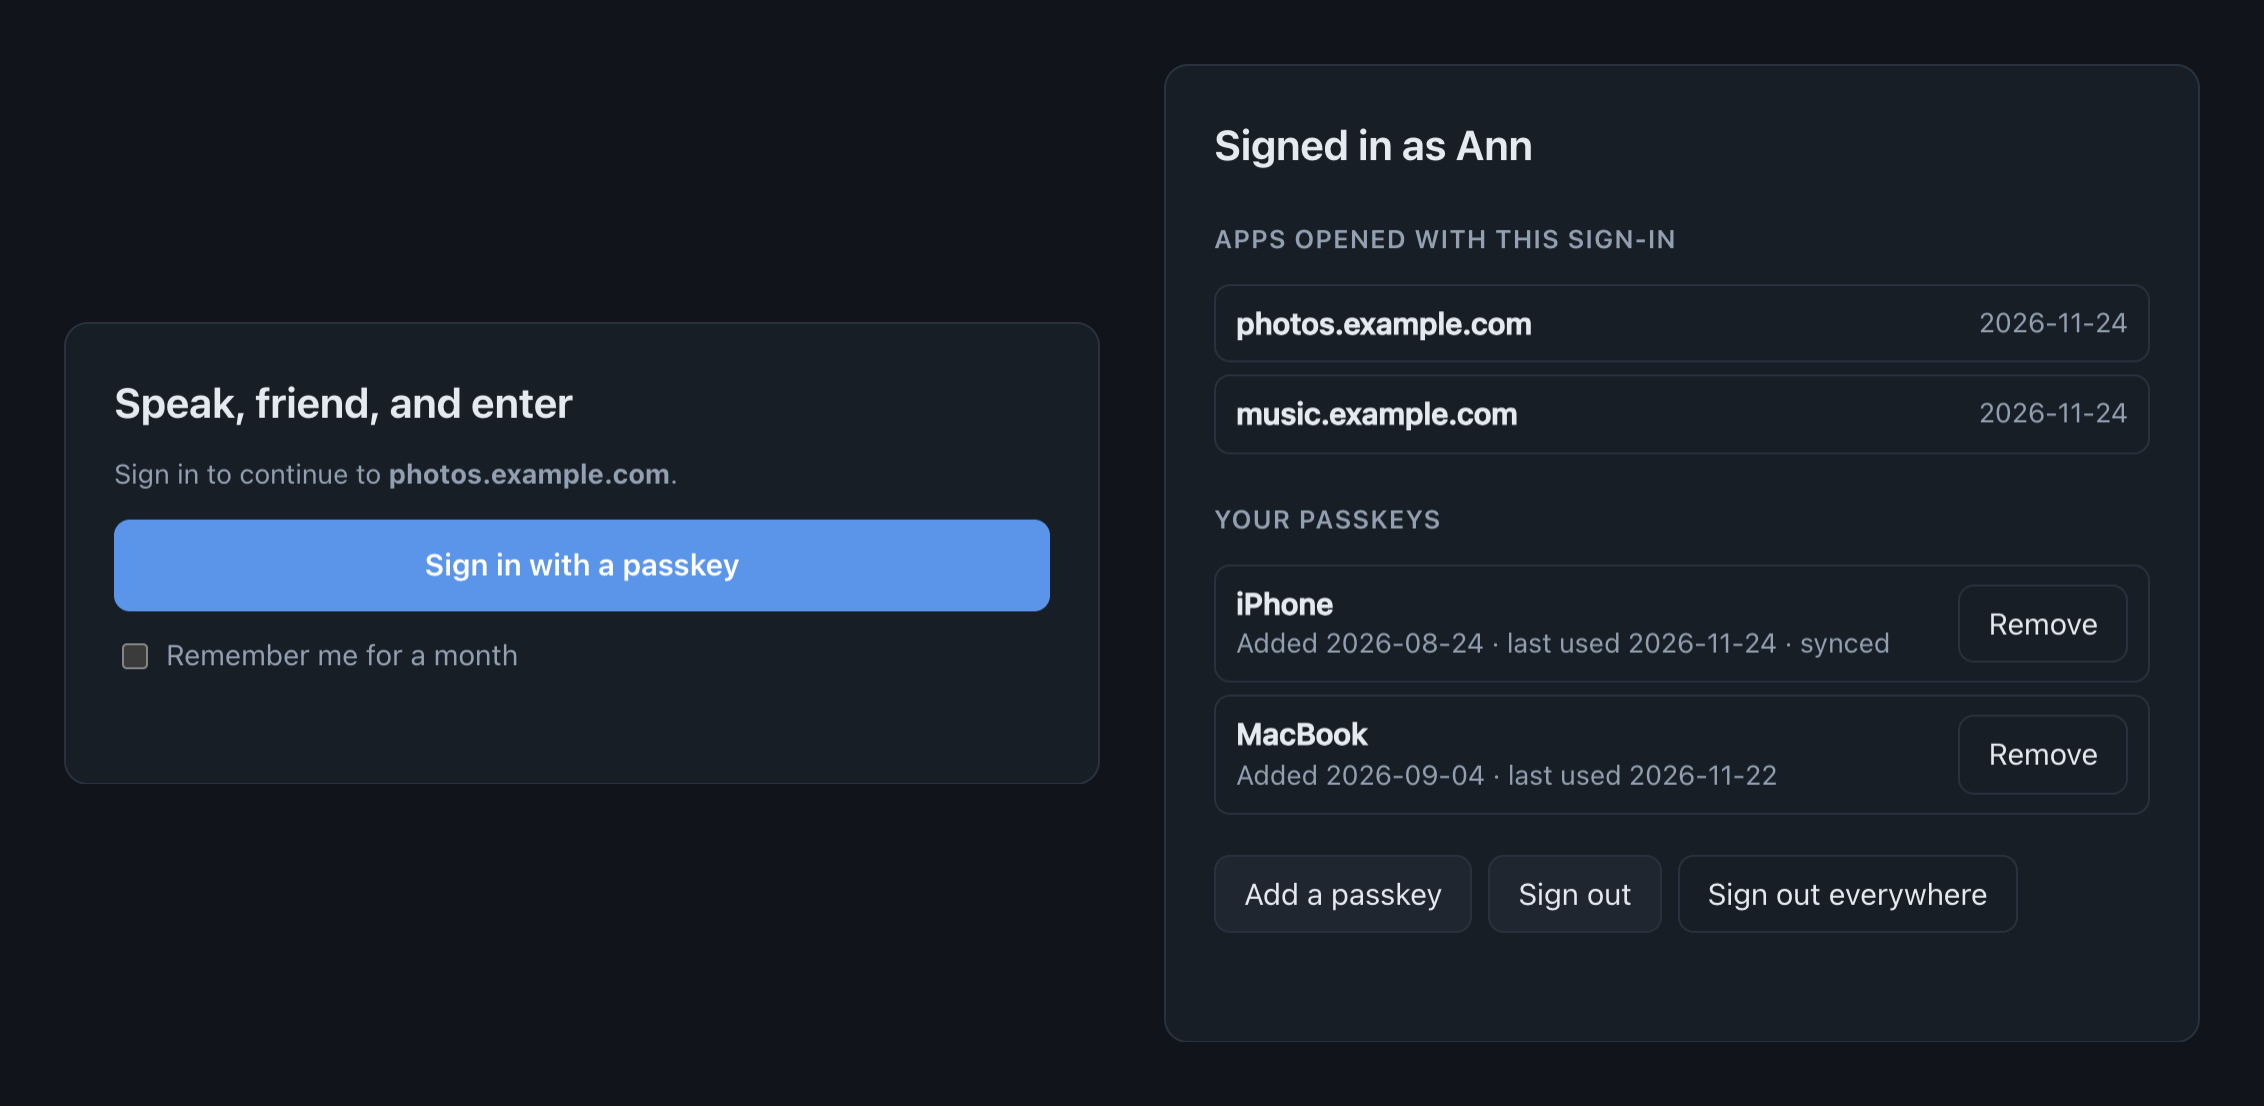
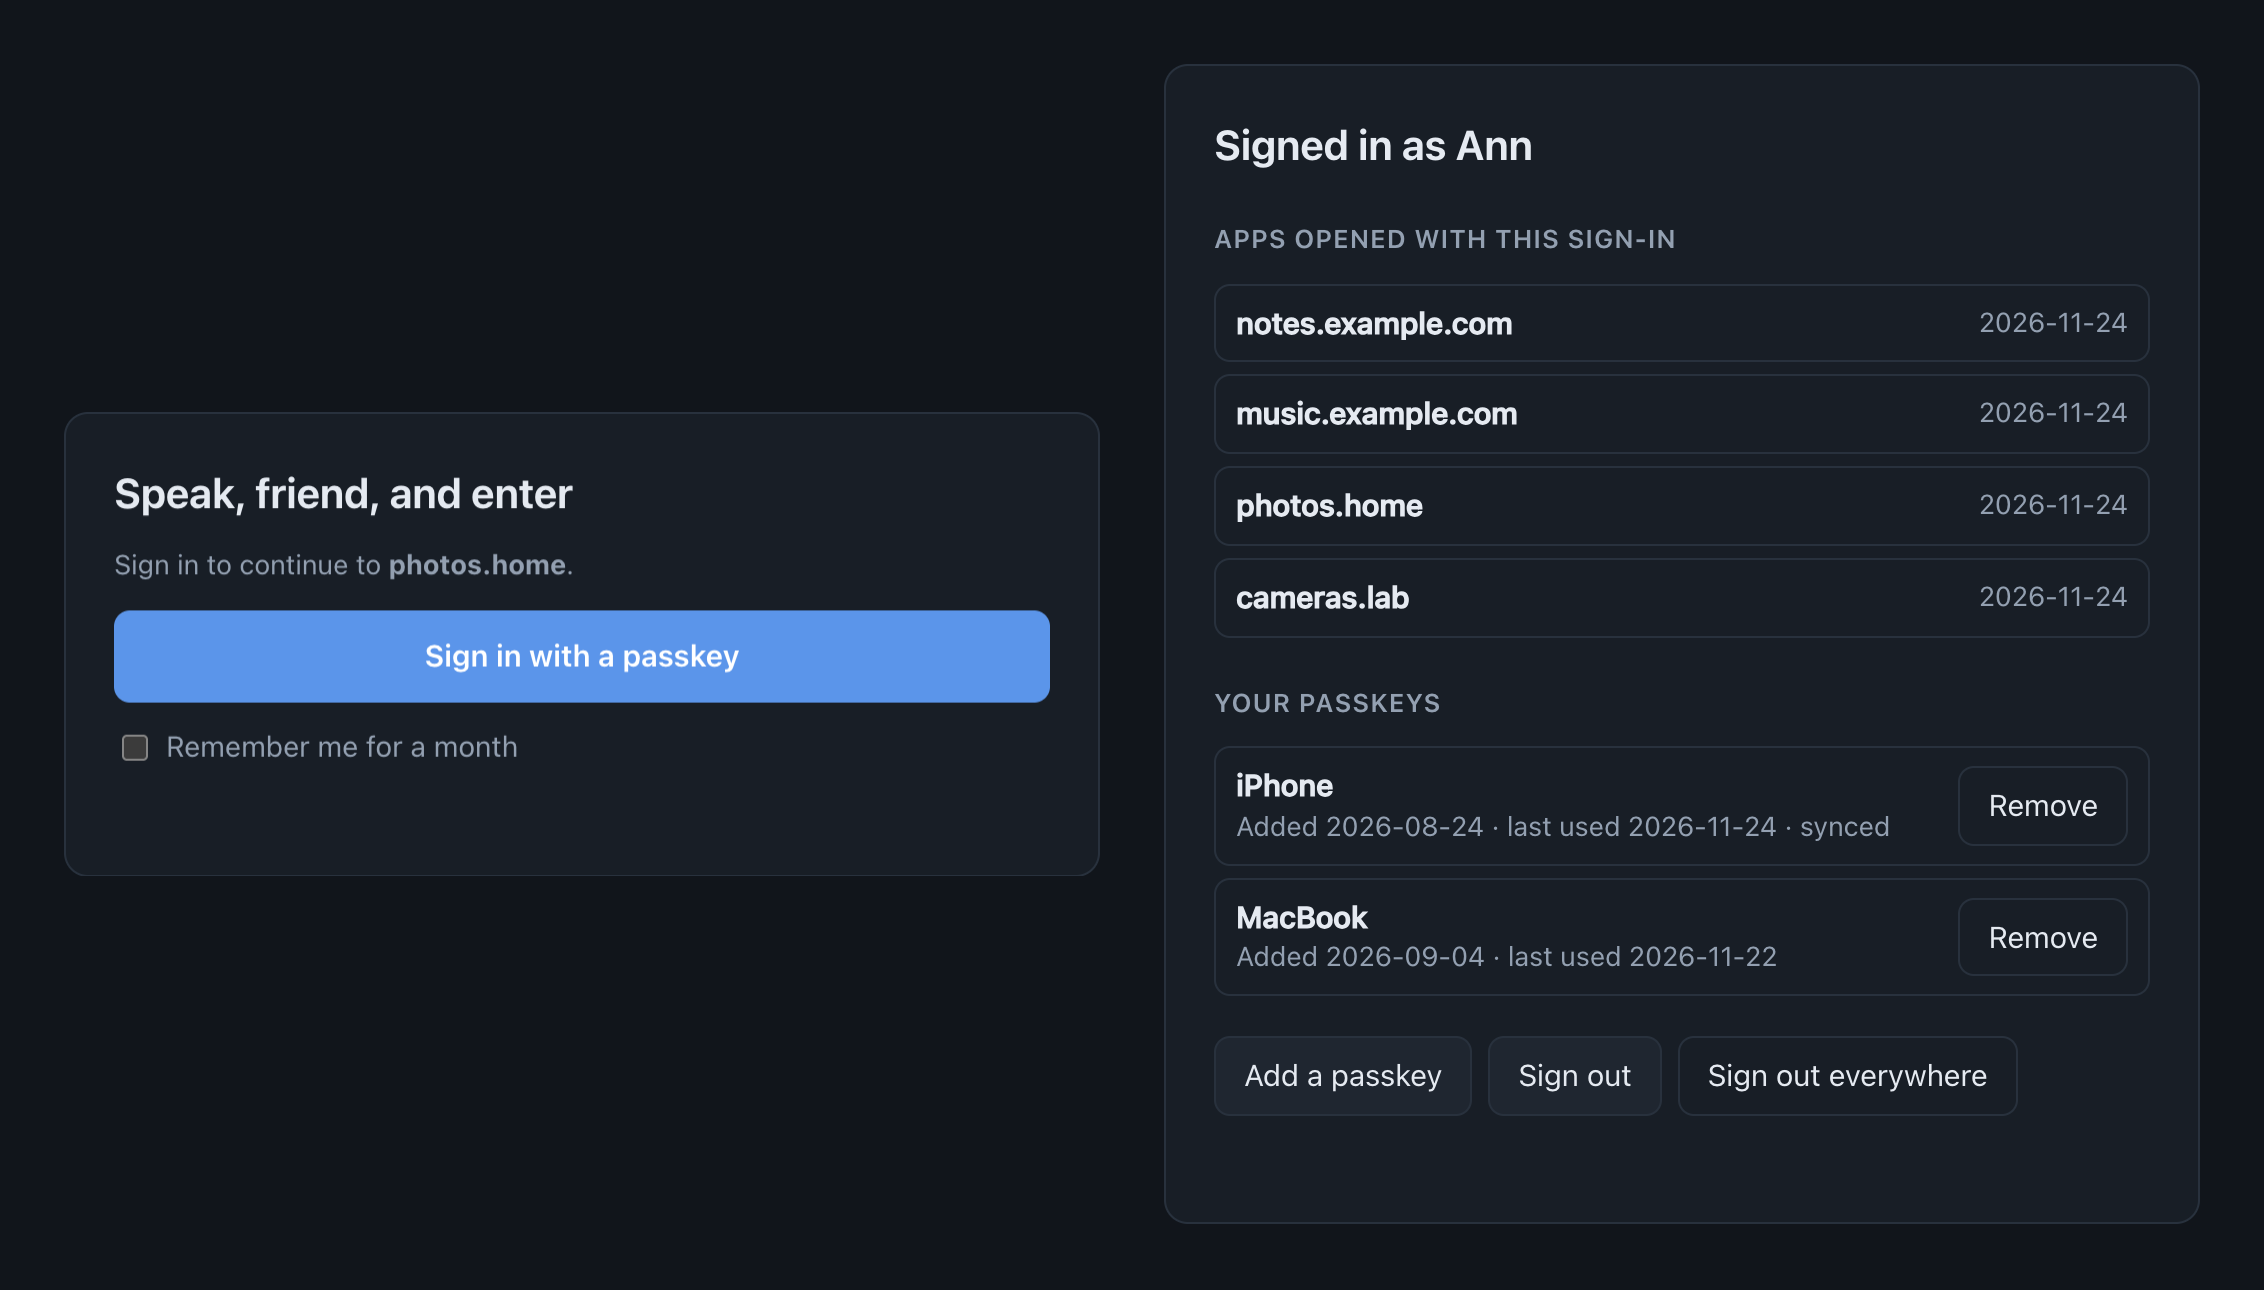
Several domains per install, private TLDs included; README features and screenshot

diff --git a/src/durin.hpp b/src/durin.hpp
@@ -1,7 +1,7 @@
 #pragma once
 
-// Durin: one passkey sign-in at the auth host (e.g. auth.example.com) for every app host under the
-// suffix (*.example.com), behind any reverse proxy with forward auth.
+// Durin: one passkey sign-in at the auth host (e.g. auth.example.com) for every app host under its
+// domains (*.example.com, *.home), behind any reverse proxy with forward auth.
 //
 // There is no shared cookie (browsers set none on a bare public suffix, and host-only cookies leak
 // less). Instead:
@@ -23,6 +23,8 @@
 #include <optional>
 #include <string>
 #include <string_view>
+#include <vector>
+#include <ranges>
 
 #include <sodium.h>
 
@@ -36,8 +38,8 @@ namespace durin {
 
 struct Settings {
     std::string auth_host;                // DURIN_AUTH_HOST (required): where sign-in happens, the passkey RP ID
-    std::string suffix;                   // DURIN_SUFFIX: app hosts are <name>.<suffix>; default: the auth host
-                                          // without its first label
+    std::vector<std::string> domains;     // app hosts are <name>.<domain>: the auth host's own domain, then
+                                          // DURIN_DOMAINS (comma separated)
     std::string user_header = "Remote-User"; // DURIN_USER_HEADER: the header verify answers with the account name
     long long idle_seconds = 5 * 60;      // DURIN_IDLE_SECONDS: unremembered sign-in ends after this much quiet
     long long max_seconds = 12 * 3600;    // DURIN_MAX_SECONDS: ... and after this long in any case
@@ -67,13 +69,17 @@ inline auto settings() -> const Settings& {
             }
         };
         text("DURIN_AUTH_HOST", c.auth_host);
-        text("DURIN_SUFFIX", c.suffix);
         text("DURIN_USER_HEADER", c.user_header);
-        for (auto* v : {&c.auth_host, &c.suffix}) {
+        std::string more;
+        text("DURIN_DOMAINS", more);
+        for (auto* v : {&c.auth_host, &more}) {
             std::ranges::transform(*v, v->begin(), [](unsigned char ch) { return static_cast<char>(std::tolower(ch)); });
         }
-        if (c.suffix.empty()) {
-            if (const auto dot = c.auth_host.find('.'); dot != std::string::npos) c.suffix = c.auth_host.substr(dot + 1);
+        if (const auto dot = c.auth_host.find('.'); dot != std::string::npos) c.domains.push_back(c.auth_host.substr(dot + 1));
+        for (const auto part : more | std::views::split(',')) {
+            std::string d(std::string_view{part});
+            std::erase_if(d, [](unsigned char ch) { return std::isspace(ch) != 0; });
+            if (!d.empty()) c.domains.push_back(std::move(d));
         }
         number("DURIN_IDLE_SECONDS", c.idle_seconds);
         number("DURIN_MAX_SECONDS", c.max_seconds);
@@ -129,13 +135,16 @@ inline auto original_url(const web::Request& req) -> Original {
     return {strip_port(std::string(authority)), slash == std::string_view::npos ? "/" : std::string(rest.substr(slash))};
 }
 
-// <label>(.<label>)*.<suffix>, DNS characters only, and not the auth host.
+// DNS labels: letters, digits and dashes, no empty label, no leading dash.
+inline auto is_dns_name(std::string_view n) -> bool {
+    if (n.empty() || n.size() > 253 || n.front() == '.' || n.back() == '.' || n.front() == '-' || n.contains("..")) return false;
+    return std::ranges::all_of(n, [](char c) { return (c >= 'a' && c <= 'z') || (c >= '0' && c <= '9') || c == '-' || c == '.'; });
+}
+
+// <label>(.<label>)*.<domain> for one of the domains, and not the auth host.
 inline auto is_app_host(std::string_view host, const Settings& s = settings()) -> bool {
-    const std::string tail = "." + s.suffix;
-    if (host.size() <= tail.size() || host.size() > 253 || !host.ends_with(tail) || host == s.auth_host) return false;
-    const auto name = host.substr(0, host.size() - tail.size());
-    if (name.front() == '.' || name.back() == '.' || name.front() == '-' || name.contains("..")) return false;
-    return std::ranges::all_of(name, [](char c) { return (c >= 'a' && c <= 'z') || (c >= '0' && c <= '9') || c == '-' || c == '.'; });
+    if (host == s.auth_host || !is_dns_name(host)) return false;
+    return std::ranges::any_of(s.domains, [&](const std::string& d) { return host.size() > d.size() + 1 && host.ends_with("." + d); });
 }
 
 // A path the callback may send the browser to on its own host: starts with one '/', no scheme-relative

diff --git a/tests/test_durin.cpp b/tests/test_durin.cpp
@@ -18,13 +18,14 @@ using W = db::sqlite::Handle<db::Write>;
 // The environment is read once, on first use: set it before any test runs.
 [[maybe_unused]] const int env_ready = [] {
     setenv("DURIN_AUTH_HOST", "auth.example.test", 1);
+    setenv("DURIN_DOMAINS", "Lab, other.test,", 1);
     return 0;
 }();
 
 auto settings() -> durin::Settings {
     durin::Settings s;
     s.auth_host = "auth.example.test";
-    s.suffix = "example.test";
+    s.domains = {"example.test", "lab"};
     return s;
 }
 
@@ -78,10 +79,15 @@ auto asked_url(const std::string& url) -> web::Request {
 
 } // namespace
 
-TEST_CASE("app hosts are DNS names under the suffix, never the auth host") {
+TEST_CASE("app hosts are DNS names under one of its domains, never the auth host") {
     const auto s = settings();
     CHECK(durin::is_app_host("a.example.test", s));
     CHECK(durin::is_app_host("a.b-c.example.test", s));
+    CHECK(durin::is_app_host("photos.lab", s)); // a second domain, here a private TLD
+    CHECK_FALSE(durin::is_app_host("lab", s));
+    CHECK_FALSE(durin::is_app_host("photoslab", s));
+    CHECK_FALSE(durin::is_app_host("photos.lab.evil.com", s));
+    CHECK_FALSE(durin::is_app_host("evil.notlab", s));
     CHECK_FALSE(durin::is_app_host("auth.example.test", s));
     CHECK_FALSE(durin::is_app_host("example.test", s));
     CHECK_FALSE(durin::is_app_host(".example.test", s));
@@ -92,6 +98,10 @@ TEST_CASE("app hosts are DNS names under the suffix, never the auth host") {
     CHECK_FALSE(durin::is_app_host("A.example.test", s));
     CHECK_FALSE(durin::is_app_host("a b.example.test", s));
     CHECK_FALSE(durin::is_app_host("a:8443.example.test", s));
+}
+
+TEST_CASE("domains come from the auth host and DURIN_DOMAINS") {
+    CHECK(durin::settings().domains == std::vector<std::string>{"example.test", "lab", "other.test"});
 }
 
 TEST_CASE("local paths keep the browser on its own host") {
@@ -114,6 +124,7 @@ TEST_CASE("a sign-in return address is an https app host or nothing") {
     CHECK(ok->path == "/p?q=1");
     CHECK(durin::parse_target("https://a.example.test", s)->path == "/");
     CHECK(durin::parse_target("https://a.example.test:443/x", s)->host == "a.example.test");
+    CHECK(durin::parse_target("https://photos.lab/x", s)->host == "photos.lab");
     CHECK(durin::parse_target("https://A.EXAMPLE.TEST/x", s)->host == "a.example.test");
 
     for (const char* bad : {"http://a.example.test/", "https://auth.example.test/", "https://evil.com/", "https://a.example.test@evil.com/",

diff --git a/app/routes/site_init.cpp b/app/routes/site_init.cpp
@@ -49,8 +49,11 @@ void site_init() {
     durin::create_schema(h);
 
     const auto& s = durin::settings();
-    if (s.auth_host.empty() || s.suffix.empty() || !s.auth_host.ends_with("." + s.suffix)) {
-        throw web::StartupError("set DURIN_AUTH_HOST (e.g. auth.example.com), and DURIN_SUFFIX if apps are not its siblings", 1);
+    if (s.domains.empty() || !durin::is_dns_name(s.auth_host)) throw web::StartupError("set DURIN_AUTH_HOST, like auth.example.com", 1);
+    std::string domains;
+    for (const auto& d : s.domains) {
+        if (!durin::is_dns_name(d)) throw web::StartupError("DURIN_DOMAINS: not a domain: " + d, 1);
+        domains += (domains.empty() ? "*." : ", *.") + d;
     }
     auto& pk = web::auth::passkeys::config();
     pk.rp_name = "Durin";
@@ -58,5 +61,5 @@ void site_init() {
     pk.rp.origins = {"https://" + s.auth_host};
     pk.rp.require_user_verification = true;
     pk.app_link_paths.clear();
-    log::info("durin: auth host {}, app hosts *.{}, {} account(s)", s.auth_host, s.suffix, durin::user_count(h));
+    log::info("durin: auth host {}, app hosts {}, {} account(s)", s.auth_host, domains, durin::user_count(h));
 }

diff --git a/README.md b/README.md
@@ -4,7 +4,10 @@ One passkey sign-in for all your self-hosted apps.
 
 Durin sits behind your reverse proxy. Sign in once at `auth.example.com` and every app on `*.example.com` opens. No passwords, no email, no outside service.
 
-**It also works on names you make up**, like `photos.home` and `music.home`, with no domain to buy and nothing public. Single sign-on normally shares one cookie across the domain, which browsers refuse on a bare name like `home`. Durin gives each app its own cookie instead, so one sign-in still opens them all.
+- **Passkeys only** — Face ID, Touch ID, a phone or a security key. No password to type, reuse or leak.
+- **Private TLDs** — use names you make up, like `photos.home`, with no domain to buy and nothing public. Single sign-on usually shares one cookie across a domain, which browsers refuse on a bare TLD; Durin gives each app its own.
+- **Several domains, one sign-in** — `notes.example.com` and `photos.home` open together.
+- **Your proxy** — Caddy, nginx, Traefik, Envoy or HAProxy.
 
 <picture>
   <source media="(prefers-color-scheme: dark)" srcset="docs/img/dark.png">
@@ -20,7 +23,7 @@ git clone https://github.com/joedzado/durin && cd durin
 
 <img src="docs/img/install.svg" alt="1. Run install.sh with your sign-in address and your proxy. 2. Paste what it prints into the proxy. 3. Open the link to make your account.">
 
-On a made-up name it is the same: `./install.sh auth.home caddy`. Your devices then need to [find and trust that name](docs/private-names.md) once.
+On a private TLD it is the same: `./install.sh auth.home caddy`. Your devices then need to [find and trust that name](docs/private-names.md) once.
 
 The first run also installs [Revet](https://github.com/joedzado/revet), the C++ framework Durin is written in.
 
@@ -41,6 +44,7 @@ None are needed. To change one, add it to `.env.local` and run `./install.sh`.
 
 | Setting | Default | |
 |---|---|---|
+| `DURIN_DOMAINS` | | More domains you control for apps, such as `home,example.org` |
 | `DURIN_IDLE_SECONDS` | `300` | Sign out after this long without activity |
 | `DURIN_MAX_SECONDS` | `43200` | Sign out after this long regardless |
 | `DURIN_REMEMBER_SECONDS` | `2592000` | How long "Remember me" lasts |
@@ -50,7 +54,7 @@ None are needed. To change one, add it to `.env.local` and run `./install.sh`.
 ## More
 
 - [Proxy recipes](docs/proxies.md)
-- [Private names](docs/private-names.md): setting up your devices for `*.home`
+- [Private TLDs](docs/private-names.md): setting up your devices for `*.home`
 - [Security](SECURITY.md): how it works, what it protects against, what it does not. Not independently audited.
 
 MIT license.

diff --git a/SECURITY.md b/SECURITY.md
@@ -13,7 +13,7 @@ Durin sits in front of other applications and decides who may reach them, so thi
 
 | Threat | Defence |
 |---|---|
-| Open redirect after sign-in | The return address must be `https`, an app host under the suffix, with no user info, odd port or scheme-relative path; anything else is dropped |
+| Open redirect after sign-in | The return address must be `https`, an app host under one of its domains, with no user info, odd port or scheme-relative path; anything else is dropped |
 | Stealing or replaying the hand-off code | One-time, 60 seconds, bound to the app host, stored hashed, and spent by any attempt, right or wrong |
 | One app reading another app's session | Each host has its own `__Host-` cookie (Secure, HttpOnly, no Domain); a cookie opens only the host it was made for, never the auth host |
 | Signing someone into your account (login CSRF) | A sign-in starts on the app host, which plants a nonce cookie; the code is bound to the nonce's hash and refuses any browser without the matching cookie, so a code you make cannot be delivered to someone else |
@@ -39,7 +39,7 @@ Durin sits in front of other applications and decides who may reach them, so thi
 - **Audit logging beyond the log file.** Sign-ins, sign-ups, invites and removals are logged by account name; denied requests are not.
 - **Demoting owners.** Owners cannot be removed from the web. Whoever holds an owner's passkey can invite anyone.
 - **Protection from a compromised proxy or host.** Either can mint what Durin would answer.
-- **A restricted certificate list.** If you use Caddy's on-demand certificates, `GET /.durin/ask` approves any well-formed name under the suffix, so anyone who can reach the proxy can have it issue certificates for made-up names. Keep the proxy off the open internet, or answer the check from your own list.
+- **A restricted certificate list.** If you use Caddy's on-demand certificates, `GET /.durin/ask` approves any well-formed name under one of its domains, so anyone who can reach the proxy can have it issue certificates for made-up names. Keep the proxy off the open internet, or answer the check from your own list.
 - **Hiding the session cookie from apps.** The proxy forwards the host's `__Host-durin` cookie to the app unless you strip it; the app can use it only on its own host.
 - **Keeping invite links out of logs.** An invite link carries its code in the query string, so it appears in the proxy's access log; it works once and for seven days. Cancel unused links from the account page.
 

diff --git a/docs/private-names.md b/docs/private-names.md
@@ -1,10 +1,12 @@
-# Private names
+# Private TLDs
 
 Durin works on any name your own network resolves: `auth.home` for signing in, `photos.home`, `music.home` and so on for apps. Nothing is registered and nothing leaves your network. These examples use `home`.
 
 ## The proxy
 
-`./install.sh auth.home caddy` prints Caddy config with `tls internal` on each site, so Caddy makes the certificates itself. With another proxy, give it a certificate from your own authority. Use one certificate per host: Chrome rejects `*.home`.
+`./install.sh auth.home caddy` prints Caddy config with `tls internal` on each site, so Caddy makes the certificates itself. To add one to a Durin that signs in elsewhere, put `DURIN_DOMAINS=home` in `.env.local`, run `./install.sh`, and give each app `tls internal` and `import durin`.
+
+With another proxy, give it a certificate from your own authority. Use one certificate per host: Chrome rejects `*.home`.
 
 ## Each device, once
 

diff --git a/AGENTS.md b/AGENTS.md
@@ -1,6 +1,6 @@
 # Durin: agent guide
 
-Passkey gate for a family of hosts (Revet, C++23). A reverse proxy's forward auth asks Durin about every request to a gated host under the suffix; one sign-in at the auth host covers every app. Named for the Doors of Durin. Proxy setup: `docs/proxies.md`.
+Passkey gate for a family of hosts (Revet, C++23). A reverse proxy's forward auth asks Durin about every request to a gated host under one of its domains; one sign-in at the auth host covers every app. Named for the Doors of Durin. Proxy setup: `docs/proxies.md`.
 
 ## Build, run
 - `./install.sh <host> <proxy>` does everything on a new machine; with no arguments it rebuilds and restarts. It prints the matching `## <Proxy>` section of `docs/proxies.md`, replacing `example.com`, `auth.example.com` and `3130`, so recipes keep those placeholders.
